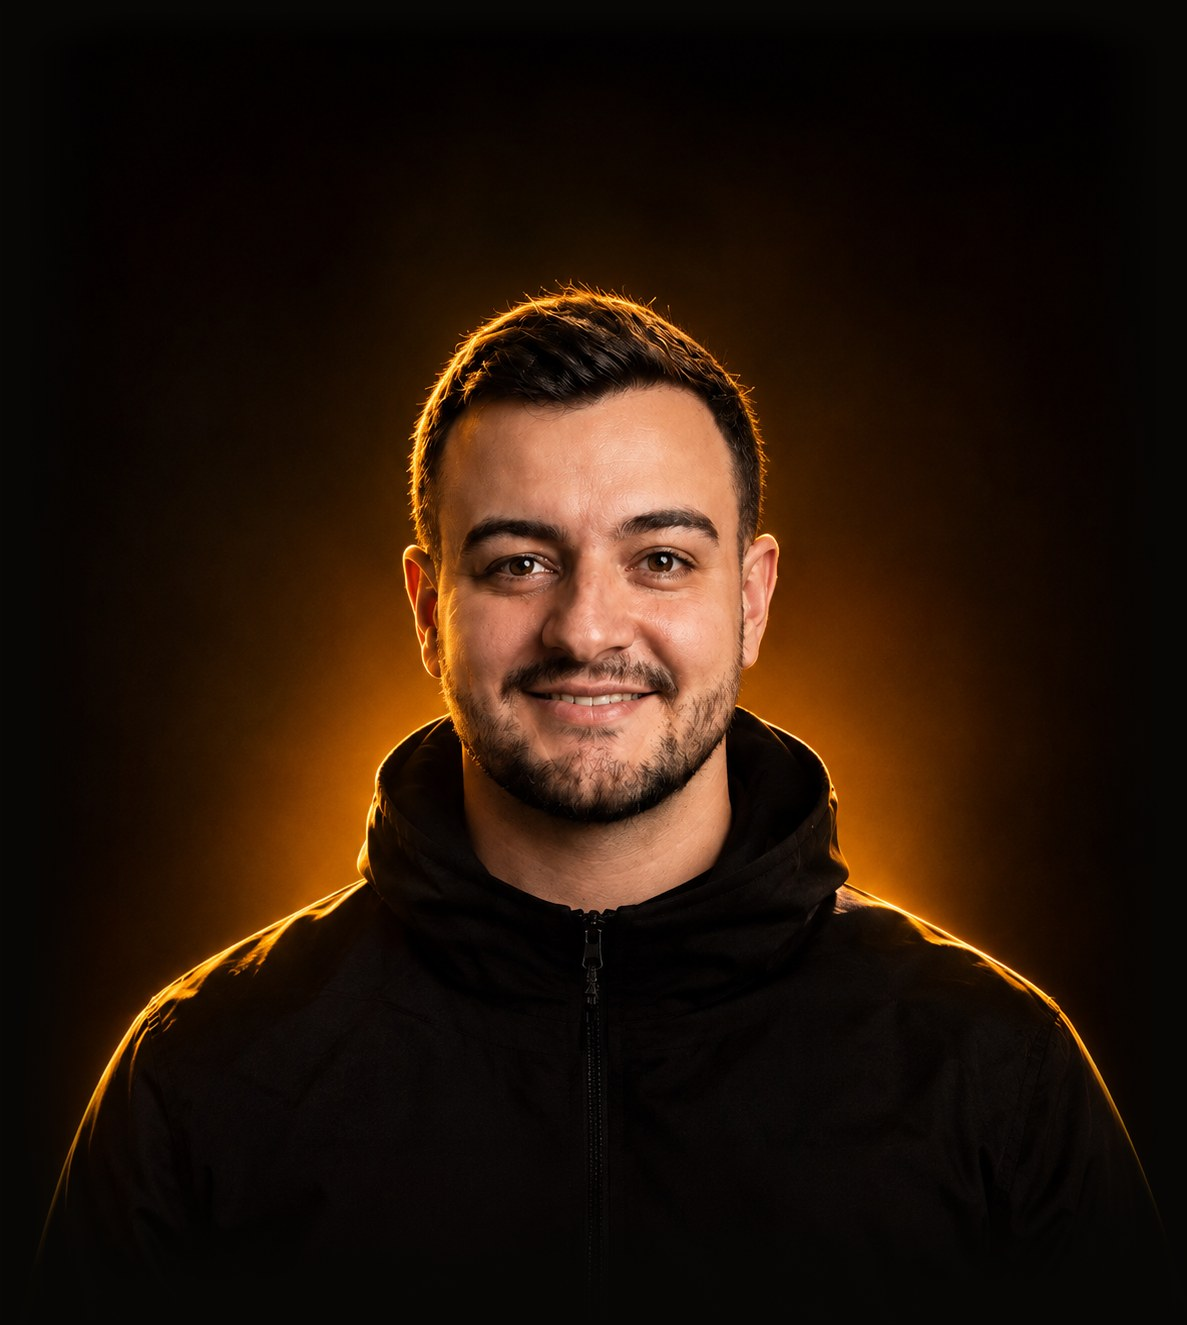
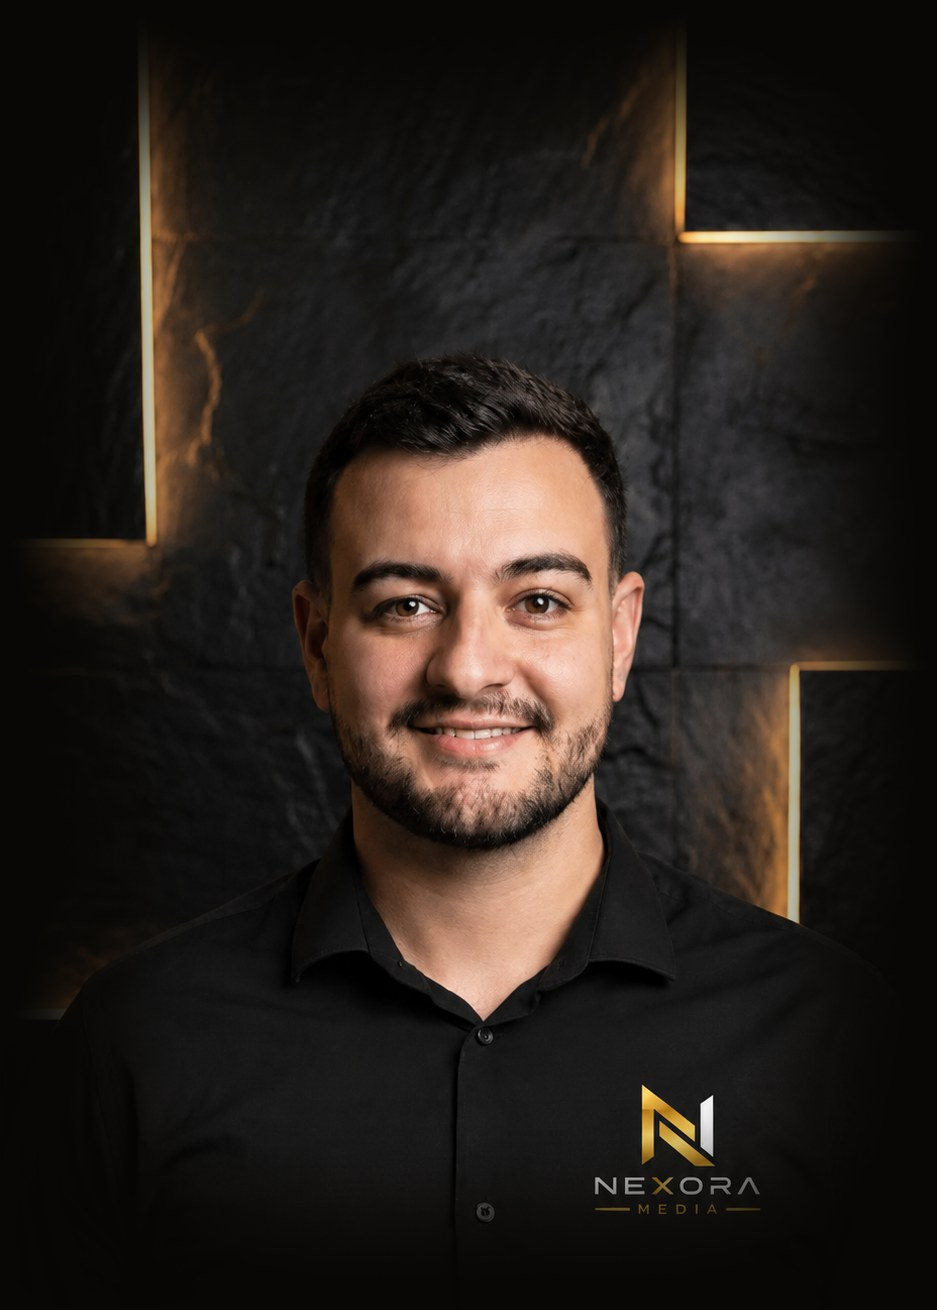
Add files via upload

diff --git a/index.html b/index.html
@@ -83,7 +83,7 @@ body.ready #loader{animation:none;opacity:0;visibility:hidden;transition:opacity
   radial-gradient(30% 40% at 50% 36%,rgba(255,214,140,.42),transparent 70%),
   radial-gradient(62% 64% at 50% 40%,rgba(217,173,91,.24),transparent 72%),
   radial-gradient(90% 60% at 50% 110%,rgba(138,100,32,.22),transparent 70%)}
-.hero .photo{position:absolute;z-index:1;left:50%;bottom:0;height:94%;max-height:900px;aspect-ratio:1187/1325;transform:translateX(-50%);max-width:100%}
+.hero .photo{position:absolute;z-index:1;left:50%;bottom:0;height:94%;max-height:900px;aspect-ratio:937/1310;transform:translateX(-50%);max-width:100%}
 .hero .veil,.hero .shade{position:absolute;inset:0;z-index:2;pointer-events:none;background:var(--ink);opacity:0}
 .hero .shade{background:linear-gradient(180deg,rgba(7,6,5,.2),var(--ink))}
 .hero .photo img{width:100%;height:100%;object-fit:cover;display:block;backface-visibility:hidden;transform:translateZ(0)}
@@ -537,7 +537,7 @@ body.lock{overflow:hidden}
   .pill a:not(.on){display:none}
   .hero{min-height:auto}
   .hero .photo{position:relative;left:auto;transform:none;height:auto;width:min(440px,100%);margin:0 auto;display:block}
-  .hero .content{grid-template-columns:1fr;padding-top:0;margin-top:-120px;gap:34px}
+  .hero .content{grid-template-columns:1fr;padding-top:0;margin-top:-24px;gap:34px}
   .hero .right{justify-self:start;text-align:left;justify-items:start}
   .hero .left{max-width:none}
   .hero .content{padding-bottom:56px}
